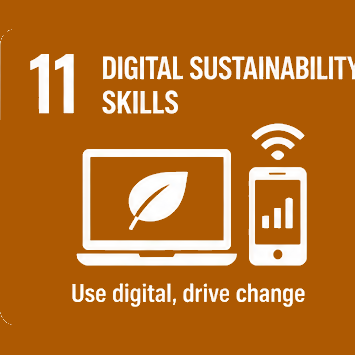
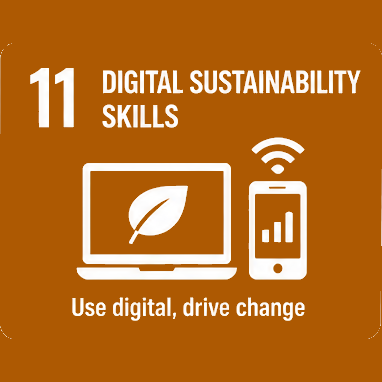
update

diff --git a/src/styles/global.css b/src/styles/global.css
@@ -610,7 +610,6 @@ p { margin: 0 0 1rem; color: var(--ink-soft); }
   text-align: center;
   padding: 0 8px;
   position: relative;
-  z-index: 1;
 }
 .step__icon {
   width: 68px; height: 68px;
@@ -632,12 +631,71 @@ p { margin: 0 0 1rem; color: var(--ink-soft); }
 .step__label { font-weight: 700; font-size: .98rem; color: var(--ink); margin-bottom: 5px; }
 .step__desc { font-size: .82rem; color: var(--ink-mute); line-height: 1.4; }
 
+.step__icon { position: relative; z-index: 1; }
+
 @media (max-width: 1024px) {
   .steps { grid-template-columns: repeat(4, 1fr); row-gap: 36px; }
   .steps::before { display: none; }
 }
+
+/* Mobile: 2-column snake with connecting lines (1→2→3→4→5→6→7) */
 @media (max-width: 560px) {
-  .steps { grid-template-columns: 1fr 1fr; row-gap: 30px; }
+  .steps {
+    --row-gap: 36px;
+    grid-template-columns: 1fr 1fr;
+    grid-auto-rows: 1fr;
+    column-gap: 18px;
+    row-gap: var(--row-gap);
+  }
+  /* boustrophedon placement: even rows run right-to-left */
+  .steps .step:nth-child(1) { grid-row: 1; grid-column: 1; }
+  .steps .step:nth-child(2) { grid-row: 1; grid-column: 2; }
+  .steps .step:nth-child(3) { grid-row: 2; grid-column: 2; }
+  .steps .step:nth-child(4) { grid-row: 2; grid-column: 1; }
+  .steps .step:nth-child(5) { grid-row: 3; grid-column: 1; }
+  .steps .step:nth-child(6) { grid-row: 3; grid-column: 2; }
+  .steps .step:nth-child(7) { grid-row: 4; grid-column: 2; }
+
+  /* horizontal links across a row (left node → right node): 1→2, 3→4, 5→6 */
+  .steps .step:nth-child(1)::after,
+  .steps .step:nth-child(4)::after,
+  .steps .step:nth-child(5)::after {
+    content: '';
+    position: absolute;
+    top: 34px; left: 50%;
+    width: calc(100% + 18px);
+    height: 3px; margin-top: -1.5px;
+    background: var(--green-300);
+    z-index: 0;
+  }
+  /* bracket links that descend a column via the empty gutter (never over text) */
+  /* 2→3 and 6→7 : right column, detour left ("[") */
+  .steps .step:nth-child(2)::after,
+  .steps .step:nth-child(6)::after {
+    content: '';
+    position: absolute;
+    top: 34px;
+    left: 50%;
+    width: 45%;
+    height: calc(100% + var(--row-gap));
+    border: 3px solid var(--green-300);
+    border-left: 0;
+    border-radius: 0 16px 16px 0;
+    z-index: 0;
+  }
+  /* 4→5 : left column, detour right ("]") */
+  .steps .step:nth-child(4)::before {
+    content: '';
+    position: absolute;
+    top: 34px;
+    left: 5%;
+    width: 45%;
+    height: calc(100% + var(--row-gap));
+    border: 3px solid var(--green-300);
+    border-right: 0;
+    border-radius: 16px 0 0 16px;
+    z-index: 0;
+  }
 }
 
 /* ============================================================

diff --git a/src/components/Header.jsx b/src/components/Header.jsx
@@ -39,7 +39,6 @@ export default function Header() {
       <span className="brand__mark">4</span>
       <span className="brand__title-wrap">
         4-SCI
-        <span className="brand__sub">Soil Smart · Sustainable Communities</span>
       </span>
     </Link>
   )

diff --git a/scripts/extract_tiles.py b/scripts/extract_tiles.py
@@ -24,7 +24,13 @@ OUT.mkdir(parents=True, exist_ok=True)
 img = Image.open(SRC).convert("RGB")
 W, H = img.size
 
-col_bounds = [0, 369, 730, 1102, W]   # 4 columns
+# Per-row column boundaries — the source grid is sheared, so row 3 sits further
+# right (its col3/col4 gap is ~1131, not ~1102) which otherwise clips tile 11.
+col_bounds_by_row = [
+    [0, 369, 730, 1102, W],   # row 1
+    [0, 369, 730, 1102, W],   # row 2
+    [0, 369, 730, 1131, W],   # row 3
+]
 row_bounds = [0, 361, 699, H]         # 3 rows
 
 TOL = 46          # bg colour match tolerance per channel (edge trim)
@@ -40,6 +46,7 @@ def near(px, bg):
 
 
 for r in range(3):
+    col_bounds = col_bounds_by_row[r]
     for c in range(4):
         idx = r * 4 + c + 1
         sub = img.crop((col_bounds[c], row_bounds[r], col_bounds[c + 1], row_bounds[r + 1]))